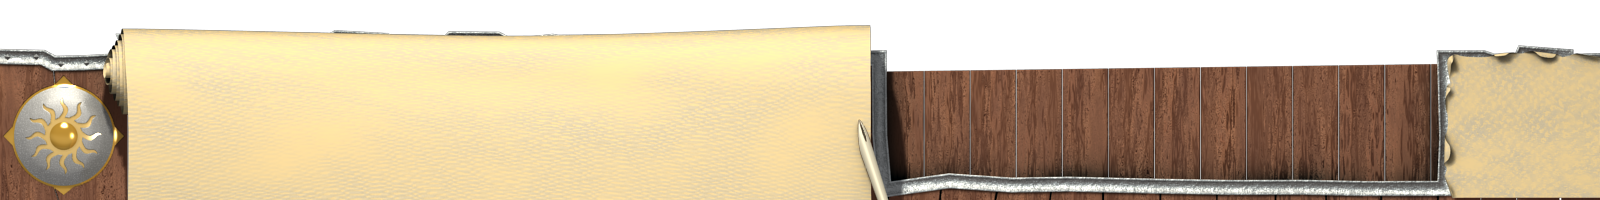
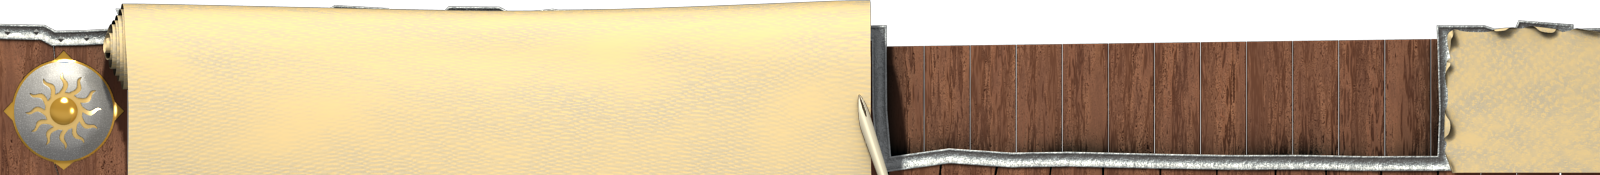
fixing too big hud image, changine pass order

diff --git a/jcrpg/src/org/jcrpg/threed/jme/GeometryBatchHelper.java b/jcrpg/src/org/jcrpg/threed/jme/GeometryBatchHelper.java
@@ -570,7 +570,7 @@ public class GeometryBatchHelper {
 		    					for (GeometryBatchSpatialInstance<GeometryBatchInstanceAttributes> i:h)
 		    					{
 		    						Vector3f pos = batch.parent.getWorldTranslation().add(i.getAttributes().getTranslation());
-		    						if (pos.distance(core.getCamera().getLocation())<20f)
+		    						if (pos.distance(core.getCamera().getLocation())<J3DCore.RENDER_SHADOW_DISTANCE)
 		    						{
 		    							core.sPass.addOccluder(batch);
 		    							found = true;
@@ -592,7 +592,7 @@ public class GeometryBatchHelper {
 		    					for (GeometryBatchSpatialInstance<GeometryBatchInstanceAttributes> i:h)
 		    					{
 		    						Vector3f pos = batch.parent.getWorldTranslation().add(i.getAttributes().getTranslation());
-		    						if (pos.distance(core.getCamera().getLocation())<20f)
+		    						if (pos.distance(core.getCamera().getLocation())<J3DCore.RENDER_SHADOW_DISTANCE)
 		    						{
 				    					if (!core.sPass.contains(batch))
 				    					{
@@ -669,7 +669,7 @@ public class GeometryBatchHelper {
 		    				for (GeometryBatchSpatialInstance<GeometryBatchInstanceAttributes> i:batch.visible)
 		    				{
 	    						Vector3f pos = batch.parent.getWorldTranslation().add(i.getAttributes().getTranslation());
-	    						if (pos.distance(core.getCamera().getLocation())<20f)
+	    						if (pos.distance(core.getCamera().getLocation())<J3DCore.RENDER_SHADOW_DISTANCE)
 	    						{
 	    							core.sPass.addOccluder(batch);
 	    							found = true;

diff --git a/jcrpg/src/org/jcrpg/threed/J3DCore.java b/jcrpg/src/org/jcrpg/threed/J3DCore.java
@@ -2376,6 +2376,15 @@ public class J3DCore extends com.jme.app.BaseSimpleGame implements Runnable {
 			// sPass.addOccluder(groundParentNode);
 		}
 
+		waterEffectRenderPass = new WaterRenderPass(cam, 4, false, true);
+		// set equations to use z axis as up
+		waterEffectRenderPass.setWaterPlane(new Plane(new Vector3f(0.0f, 1.0f,
+				0.0f), 0.0f));
+		waterEffectRenderPass.setTangent(new Vector3f(1.0f, 0.0f, 0.0f));
+		waterEffectRenderPass.setBinormal(new Vector3f(0.0f, 1.0f, 0.0f));
+		// waterEffectRenderPass.setWaterMaxAmplitude(2f);
+		pManager.add(waterEffectRenderPass);
+
 		if (BLOOM_EFFECT) {
 			if (!bloomRenderPass.isSupported()) {
 				Jcrpg.LOGGER.warning("!!!!!! BLOOM NOT SUPPORTED !!!!!!!! ");
@@ -2399,14 +2408,6 @@ public class J3DCore extends com.jme.app.BaseSimpleGame implements Runnable {
 				pManager.add(bloomRenderPass);
 			}
 		}
-		waterEffectRenderPass = new WaterRenderPass(cam, 4, false, true);
-		// set equations to use z axis as up
-		waterEffectRenderPass.setWaterPlane(new Plane(new Vector3f(0.0f, 1.0f,
-				0.0f), 0.0f));
-		waterEffectRenderPass.setTangent(new Vector3f(1.0f, 0.0f, 0.0f));
-		waterEffectRenderPass.setBinormal(new Vector3f(0.0f, 1.0f, 0.0f));
-		// waterEffectRenderPass.setWaterMaxAmplitude(2f);
-		pManager.add(waterEffectRenderPass);
 
 		RenderPass uiPass = new RenderPass();
 		uiPass.add(uiRootNode);

diff --git a/jcrpg/src/org/jcrpg/ui/HUD.java b/jcrpg/src/org/jcrpg/ui/HUD.java
@@ -99,10 +99,10 @@ public class HUD {
 
         // main hud image area
         
-        Quad hudQuad = new Quad("hud", core.getDisplay().getWidth(), (core.getDisplay().getHeight()/6.0f));
+        Quad hudQuad = new Quad("hud", core.getDisplay().getWidth(), (core.getDisplay().getHeight()/7.0f));
         hudQuad.setRenderQueueMode(Renderer.QUEUE_ORTHO);  
 
-        hudQuad.setLocalTranslation(new Vector3f(core.getDisplay().getWidth()/2,core.getDisplay().getHeight()/12f,0));
+        hudQuad.setLocalTranslation(new Vector3f(core.getDisplay().getWidth()/2,core.getDisplay().getHeight()/14f,0));
  
         Image hudImage = TextureManager.loadImage(new File(params.image).toURI().toURL(),true);
 		
